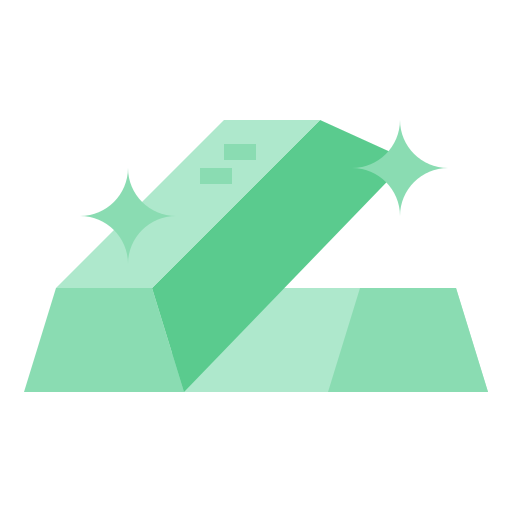
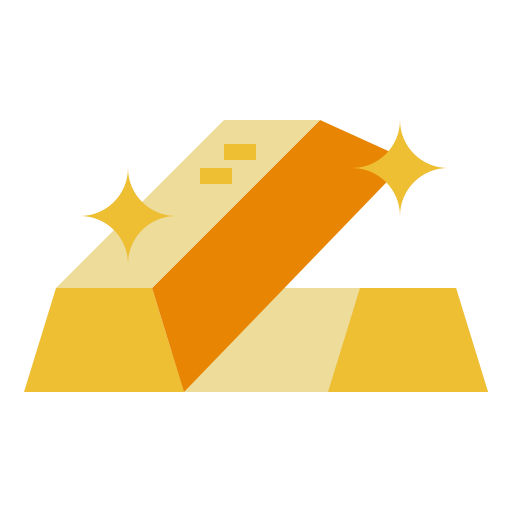
금/은 css 추가

diff --git a/kk_page/kk-card-front/src/style.css b/kk_page/kk-card-front/src/style.css
@@ -841,3 +841,223 @@ button {
     min-height: 480px;
   }
 }
+
+.date-row {
+  display: flex;
+  justify-content: center;
+  align-items: flex-end;
+  gap: 20px;
+
+  margin-top: 24px;
+}
+
+/* 시작/종료 묶음 */
+.date-group {
+  display: flex;
+  gap: 16px;
+}
+
+/* 각각 input */
+.field {
+  display: flex;
+  flex-direction: column;
+  gap: 6px;
+}
+
+.field label {
+  font-size: 13px;
+  font-weight: 700;
+}
+
+/* input */
+.field input {
+  width: 180px;
+  height: 44px;
+  border-radius: 12px;
+  border: 1px solid #ddd;
+  padding: 0 12px;
+}
+
+/* 조회 버튼 */
+.search-btn {
+  height: 44px;
+  padding: 0 20px;
+  border-radius: 12px;
+
+  background: #2d9c7a;
+  color: white;
+  font-weight: 800;
+
+  border: none;
+  cursor: pointer;
+}
+
+.search-btn:hover {
+  background: #238667;
+}
+
+/* 전체 페이지 */
+.container {
+  max-width: 900px;
+  margin: 0 auto;
+  padding: 40px 24px;
+  background: #f7fbf6;
+  min-height: 100vh;
+
+  display: flex;
+  flex-direction: column;
+  align-items: center; /* 핵심 */
+}
+
+/* 제목 */
+h2 {
+  font-size: 28px;
+  font-weight: 900;
+  text-align: center;
+  margin-bottom: 20px;
+  color: #222;
+}
+
+/* 카드 */
+.card {
+  width: 100%;
+  max-width: 760px;   /* 핵심 */
+  background: white;
+  border-radius: 24px;
+  padding: 28px;
+  box-shadow: 0 10px 30px rgba(45, 156, 122, 0.1);
+  border: 1px solid #e4eee8;
+}
+
+/* 섹션 타이틀 */
+h5 {
+  font-size: 18px;
+  font-weight: 800;
+  margin-bottom: 18px;
+  color: #222;
+}
+
+/* 금/은 버튼 영역 */
+.d-flex.gap-2 {
+  display: flex;
+  gap: 12px;
+  justify-content: center;
+}
+
+/* 버튼 공통 */
+.btn {
+  padding: 10px 18px;
+  border-radius: 999px;
+  font-weight: 700;
+  border: 1px solid transparent;
+  cursor: pointer;
+  transition: all 0.2s ease;
+}
+
+/* 금 */
+.btn-warning {
+  background: #f1c40f;
+  color: #222;
+}
+
+.btn-outline-warning {
+  border: 1px solid #f1c40f;
+  background: white;
+  color: #f1c40f;
+}
+
+/* 은 */
+.btn-secondary {
+  background: #95a5a6;
+  color: white;
+}
+
+.btn-outline-secondary {
+  border: 1px solid #95a5a6;
+  background: white;
+  color: #95a5a6;
+}
+
+/* hover */
+.btn:hover {
+  transform: translateY(-2px);
+  opacity: 0.9;
+}
+
+/* 날짜 영역 */
+
+.row {
+  display: flex;
+  justify-content: center;
+  gap: 16px;
+  margin-top: 24px;
+}
+
+/* 각 컬럼 고정 폭으로 가운데 모이게 */
+.col-md-4 {
+  flex: 1;
+  max-width: 220px;
+}
+
+/* 입력 박스 정렬 */
+.form-group,
+.form-label {
+  text-align: left;
+}
+
+/* 조회 버튼도 가운데 정렬 느낌 보정 */
+.col-md-4:last-child {
+  display: flex;
+  justify-content: center;
+}
+
+.form-label {
+  font-size: 13px;
+  font-weight: 700;
+  margin-bottom: 6px;
+  display: block;
+  color: #555;
+}
+
+.form-control {
+  width: 100%;
+  height: 44px;
+  border-radius: 12px;
+  border: 1px solid #ddd;
+  padding: 0 12px;
+  outline: none;
+}
+
+/* 조회 버튼 */
+.btn-primary {
+  background: #2d9c7a;
+  color: white;
+  border: none;
+  height: 44px;
+  border-radius: 12px;
+  font-weight: 800;
+}
+
+.btn-primary:hover {
+  background: #238667;
+}
+
+/* 메시지 */
+.text-danger {
+  color: #e74c3c;
+  margin-top: 12px;
+  text-align: center;
+}
+
+.text-muted {
+  color: #7a827d;
+  margin-top: 12px;
+  text-align: center;
+}
+
+/* 차트 영역 */
+canvas {
+  margin-top: 24px;
+  width: 100% !important;
+  height: 400px !important;
+}

diff --git a/kk_page/kk-card-front/src/views/GoldSilverChartView.vue b/kk_page/kk-card-front/src/views/GoldSilverChartView.vue
@@ -23,22 +23,24 @@
         </button>
       </div>
 
-      <div class="row mt-4">
-        <div class="col-md-4">
-          <label class="form-label">시작일</label>
-          <input type="date" class="form-control" v-model="startDate" />
+      <div class="date-row">
+
+        <div class="date-group">
+          <div class="field">
+            <label>시작일</label>
+            <input type="date" v-model="startDate" />
+          </div>
+
+          <div class="field">
+            <label>종료일</label>
+            <input type="date" v-model="endDate" />
+          </div>
         </div>
 
-        <div class="col-md-4">
-          <label class="form-label">종료일</label>
-          <input type="date" class="form-control" v-model="endDate" />
-        </div>
+        <button class="search-btn" @click="fetchPrices">
+          조회
+        </button>
 
-        <div class="col-md-4 d-flex align-items-end">
-          <button class="btn btn-primary w-100" @click="fetchPrices">
-            조회
-          </button>
-        </div>
       </div>
 
       <p v-if="errorMessage" class="text-danger mt-3">